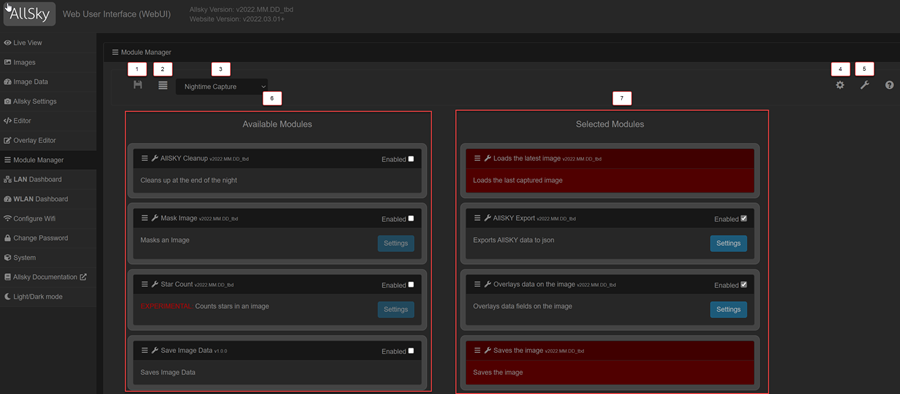
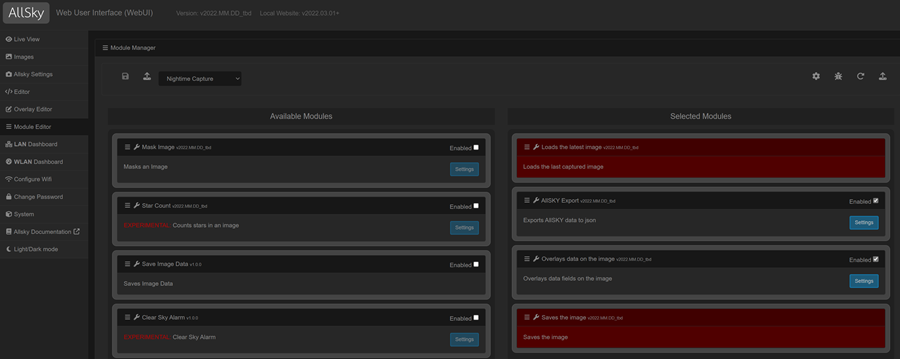
Documentation update

diff --git a/html/documentation/modules/modules.html b/html/documentation/modules/modules.html
@@ -23,9 +23,9 @@
 
 <body>
     <div w3-include-html="/documentation/pageHeader.html" id="pageHeader"></div>
-	<div class="Layout">
-		<div class="Layout-sidebar" w3-include-html="/documentation/sidebar.html" id="sidebar"></div>
-		<div class="Layout-main markdown-body" id="mainContents">
+    <div class="Layout">
+        <div class="Layout-sidebar" w3-include-html="/documentation/sidebar.html" id="sidebar"></div>
+        <div class="Layout-main markdown-body" id="mainContents">
 
 
             <h2>What are modules?</h2>
@@ -116,45 +116,52 @@
                         <thead>
                             <tr>
                                 <th>Annotation</th>
+                                <th>Icon</th>
                                 <th>Description</th>
                             </tr>
                         </thead>
                         <tbody>
                             <tr>
-                                <td class="WebUISetting">1 - Save</td>
+                                <td class="WebUISetting">Save</td>
+                                <td><i class="fa fa-save fa-lg"></i></td>
                                 <td>This will be enabled when any changes have been made</td>
                             </tr>
                             <tr>
-                                <td class="WebUISetting">2 - Upload</td>
+                                <td class="WebUISetting">Upload</td>
+                                <td><i class="fa-solid fa-upload"></i></td>
                                 <td>This will allow you to upload a zip file containing a new or updated module.
                                     Please see the section on adding and updating modules for more details on
                                     how to use this feature </td>
                             </tr>
                             <tr>
-                                <td class="WebUISetting">3 - Flow</td>
+                                <td class="WebUISetting">Flow</td>
+                                <td></td>
                                 <td>The flow you wish to manage. If you have un saved changes from the current
                                     flow you will be prompted to save them before switching</td>
                             </tr>
                             <tr>
-                                <td class="WebUISetting">4 - Settings</td>
+                                <td class="WebUISetting">Settings</td>
+                                <td><i class="fa-solid fa-gear"></i></td>
                                 <td>Displays the settings dialog for the Module Manager</td>
                             </tr>
                             <tr>
-                                <td class="WebUISetting">5 - Debug</td>
+                                <td class="WebUISetting">Debug</td>
+                                <td><i class="fa-solid fa-bug"></i></td>
                                 <td>Displays the debug data for modules. This icon is only visible if its been
                                     enabled in the settings</td>
                             </tr>
                             <tr>
-                                <td class="WebUISetting">6 - Available</td>
-                                <td>These are the available modules for the selected Flow</td>
+                                <td class="WebUISetting">Reset</td>
+                                <td><i class="fa-solid fa-rotate-right"></i></td>
+                                <td>Resets the selected flow to the installation default</td>
                             </tr>
                             <tr>
-                                <td class="WebUISetting">7 - Enabled</td>
-                                <td>These are the modules to be run in the selected Flow. <strong>They will only
-                                        be run if the enabled checkbox is selected</strong>
-                                    <p>Modules displayed in red are fixed and cannot be moved</p>
-                                </td>
+                                <td class="WebUISetting">Restore</td>
+                                <td><i class="fa-solid fa-upload"></i></td>
+                                <td>Restores the flow to the last backup. This option will only be visible if there is a
+                                    restore poitn available</td>
                             </tr>
+
 
                         </tbody>
                     </table>
@@ -1328,6 +1335,8 @@
                     prevent them creating issues in the modules. For example the star detection module can use a
                     mask to hide all areas of the image that may contain things that will confuse the star
                     detection typically local light pollution</p>
+                <blockquote>Masks must be created in image editing software such as Gimp or Photoshop. There are no
+                    tools available within AllSky to create masks</blockquote>
                 <details>
                     <summary></summary>
 
@@ -1358,6 +1367,37 @@
                             </td>
                         </tr>
                     </table>
+
+                    <p>Masks are also used to mask areas of the image for some modules, such as the star count. This is
+                        to prevent false positive. Consider the following example</p>
+                    <table class="module-settings vtop">
+                        <tr>
+                            <td>
+                                <p>Consider the following image which is a raw image from the camera. There is a lot of
+                                    non sky in the image, houses trees etc. These 'artifacts' can cause some detection
+                                    modules to get confused so by masking them they will not be included in any of the
+                                    calculations</p>
+                            </td>
+                            <td><img allsky="true" loading="lazy" src="mask-stars-raw.png" alt="Raw Mask Image" />
+                            </td>
+                        </tr>
+                        <tr>
+                            <td>
+                                <p>This mask was created in an external image editing program to mask out the areas of the image that are not sky</p>
+                                <blockquote>Since this mask is being used to mask specific areas of the image if the camera is moved then the mask may have to be recreated</blockquote>
+                            </td>
+                            <td><img allsky="true" loading="lazy" src="mask-stars-mask.png" alt="Mask" /></td>
+                        </tr>
+                        <tr>
+                            <td>
+                                <p>After the mask has been applied the resulting image will allow the various modules to process the image</p>
+                            </td>
+                            <td><img allsky="true" loading="lazy" src="mask-stars-result.png" alt="Masked Image" />
+                            </td>
+                        </tr>
+                    </table>
+
+
                     <blockquote>
                         <p>Some modules will apply the mask but it will not be used for the final image.
                             Examples of this are masks used to mask the image for star/meteor detection</p>
